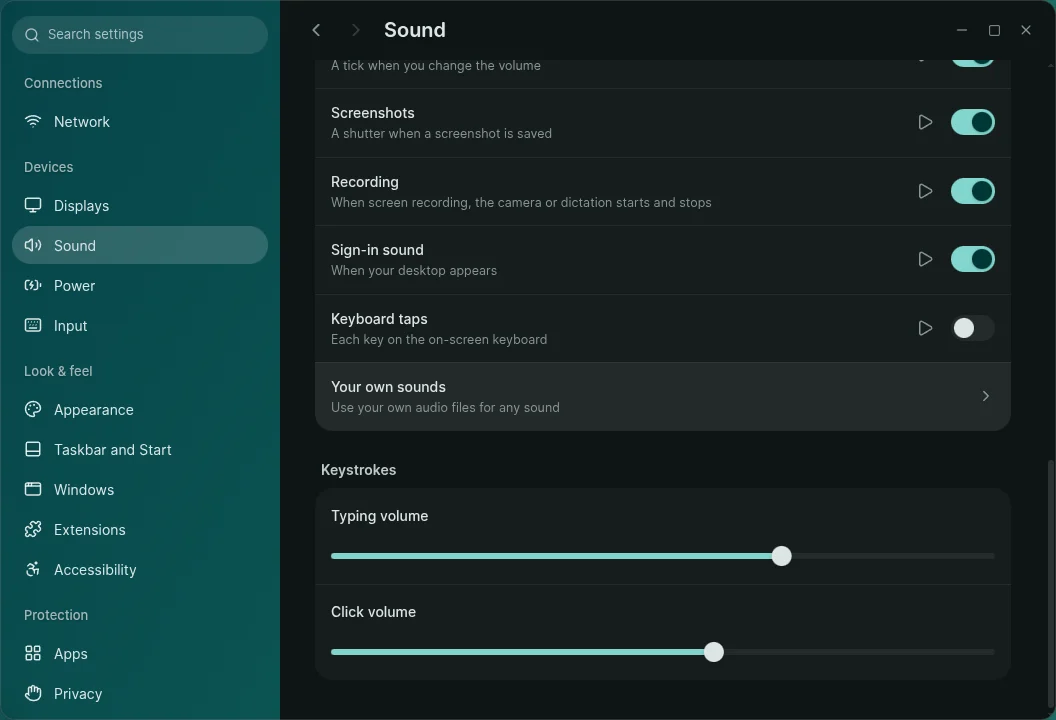
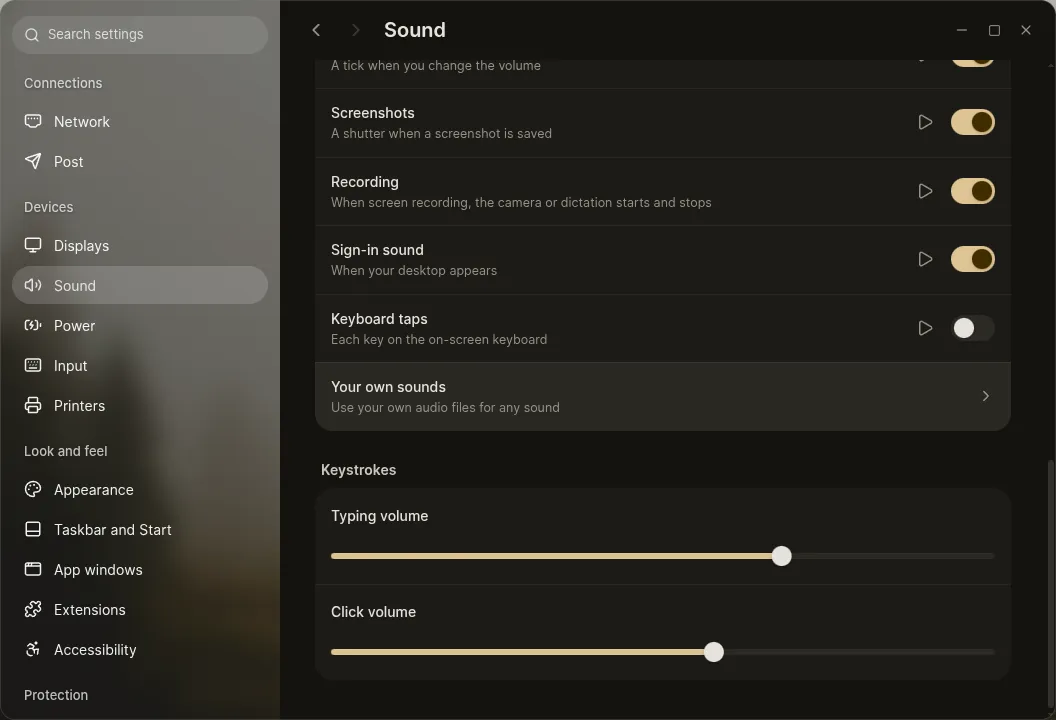
Take the store screenshots of extension settings over the default wallpaper, and bring back the Phosphor settings one

diff --git a/kestrel/tools/checks/apps/settings.ts b/kestrel/tools/checks/apps/settings.ts
@@ -9,9 +9,9 @@ import {checkTaskbarLooks, checkTaskbarLayouts} from './settings/look/taskbar.js
 import {checkWallpaper} from './settings/look/wallpaper.js';
 
 export async function run() {
+  await withApp('settings', [], checkExtensions);
   await withPalette(async palette => {
     await withApp('settings', [], async app => {
-      await checkExtensions(app);
       await checkPalette(app, palette);
       await checkPages(app);
       await checkTaskbarLooks(app);

diff --git a/kestrel/tools/checks/desktop/phosphorStore.ts b/kestrel/tools/checks/desktop/phosphorStore.ts
@@ -56,6 +56,9 @@ export async function run() {
       place(settings.window, 500, 190, 860, 620);
       await settled();
       await pictures();
+      rover.window.minimize();
+      place(settings.window, 192, 90, 1056, 720);
+      await settled();
       (await show(settings, `extensions/${PHOSPHOR.toLowerCase()}`)).save('store-settings');
     }));
   } finally {
